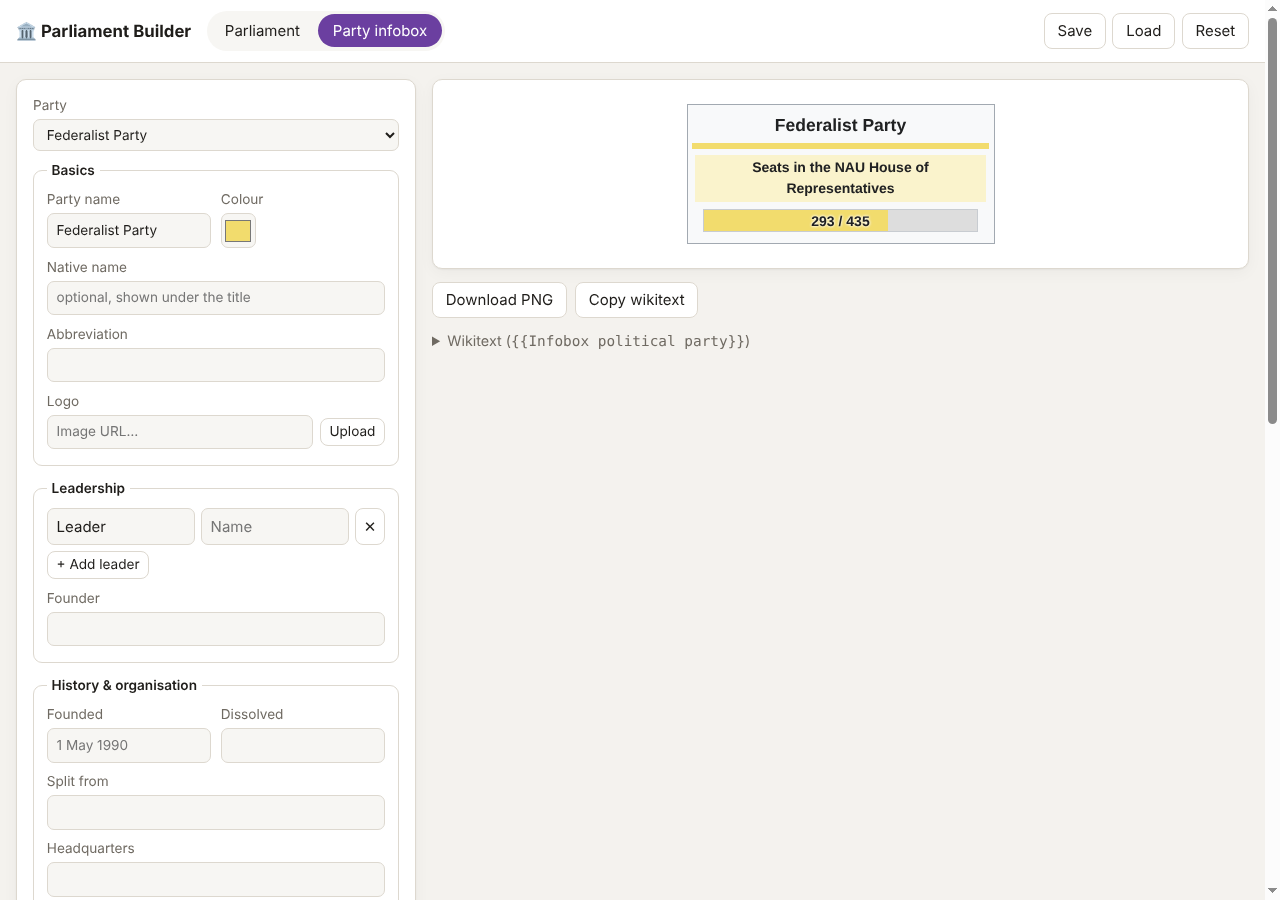
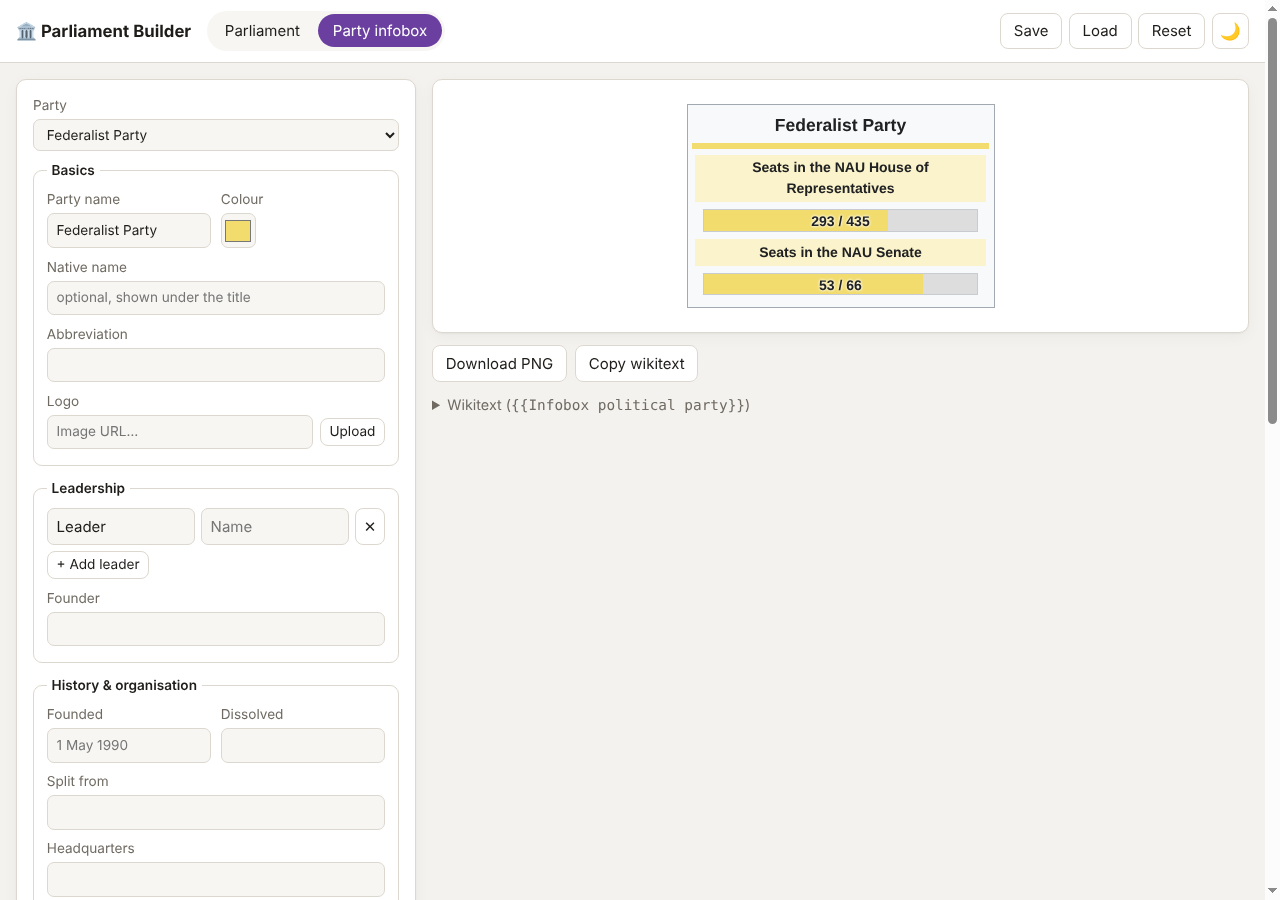
Default to a bicameral NAU legislature with the Senate filled in
NAU Senate: 53 Federalists, 12 Democratic-Republicans and 1 Independent
caucusing with the Federalists. The caucusing independent is its own
entry (Senate only, ticked as coalition) so the House independents
aren't counted with the Federalists.

Claude-Session: https://claude.ai/code/session_01YEyqT6GYSsonwrr33PWms8

Changed region(s): [[0.3438, 0.2489, 0.9688, 0.3422], [0.3438, 0.3733, 0.5938, 0.4667], [0.7812, 0.0311, 0.9688, 0.0622]]

diff --git a/js/state.js b/js/state.js
@@ -68,22 +68,25 @@ window.PB = window.PB || {};
   });
 
   PB.sampleState = () => {
+    // Seats are [House, Senate]. The Senate independent caucuses with the
+    // Federalists, so it gets its own entry (and coalition tick) like on Wikipedia.
     const parties = [
-      ['Democratic-Republican Party', 'DR', '#6a5acd', 134, false],
-      ['Independent', 'IND', '#9e9e9e', 5, false],
-      ['Vacant', '', '#e0e0e0', 3, false],
-      ['Federalist Party', 'FED', '#f2dc6d', 293, true],
-    ].map(([name, short, color, seats, coalition]) => PB.newParty({ name, short, color, seats: [seats, 0], coalition }));
+      ['Democratic-Republican Party', 'DR', '#6a5acd', [134, 12], false],
+      ['Independent', 'IND', '#9e9e9e', [5, 0], false],
+      ['Vacant', '', '#e0e0e0', [3, 0], false],
+      ['Independent (caucuses with the Federalists)', 'IND', '#cfc493', [0, 1], true],
+      ['Federalist Party', 'FED', '#f2dc6d', [293, 53], true],
+    ].map(([name, short, color, seats, coalition]) => PB.newParty({ name, short, color, seats, coalition }));
 
     // Keep vacant seats off both sides in the Westminster layout.
     parties[2].bench = 'crossbench';
 
     return {
-      system: 'unicameral',
+      system: 'bicameral',
       activeChamber: 0,
       chambers: [PB.newChamber({ name: 'NAU House of Representatives' }), PB.newChamber({ name: 'NAU Senate' })],
       parties,
-      ibPartyId: parties[3].id,
+      ibPartyId: parties[4].id,
     };
   };
 
